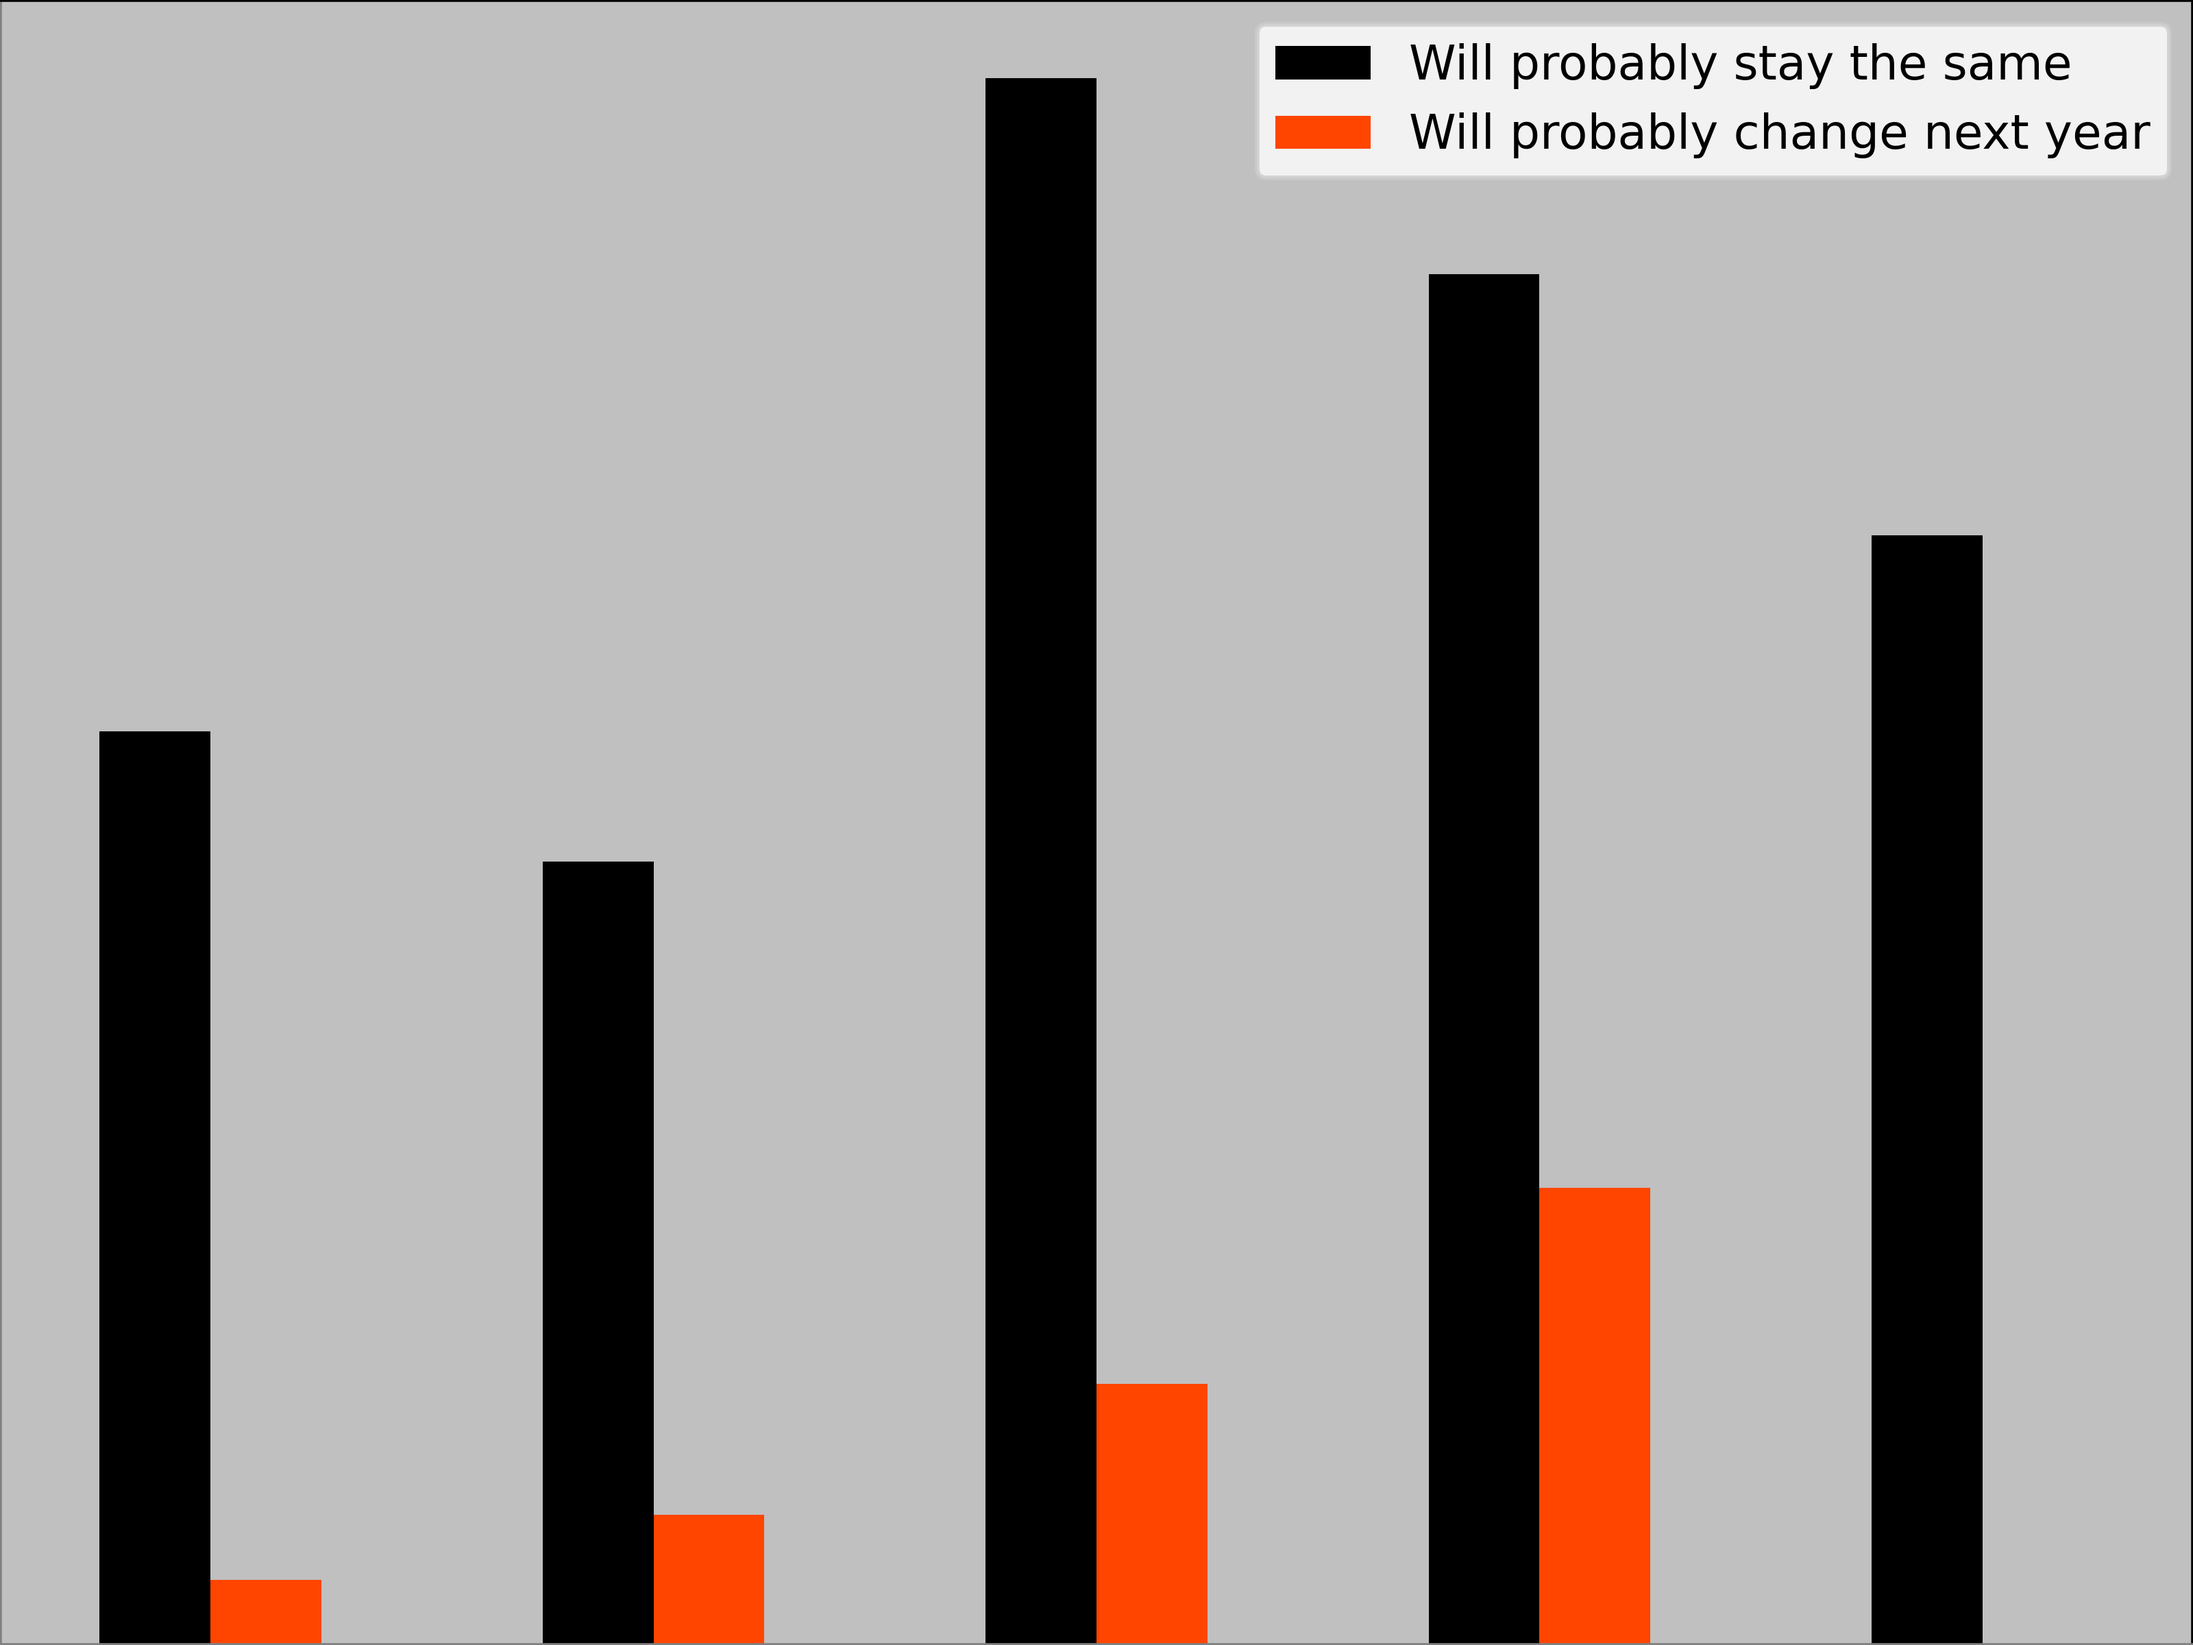
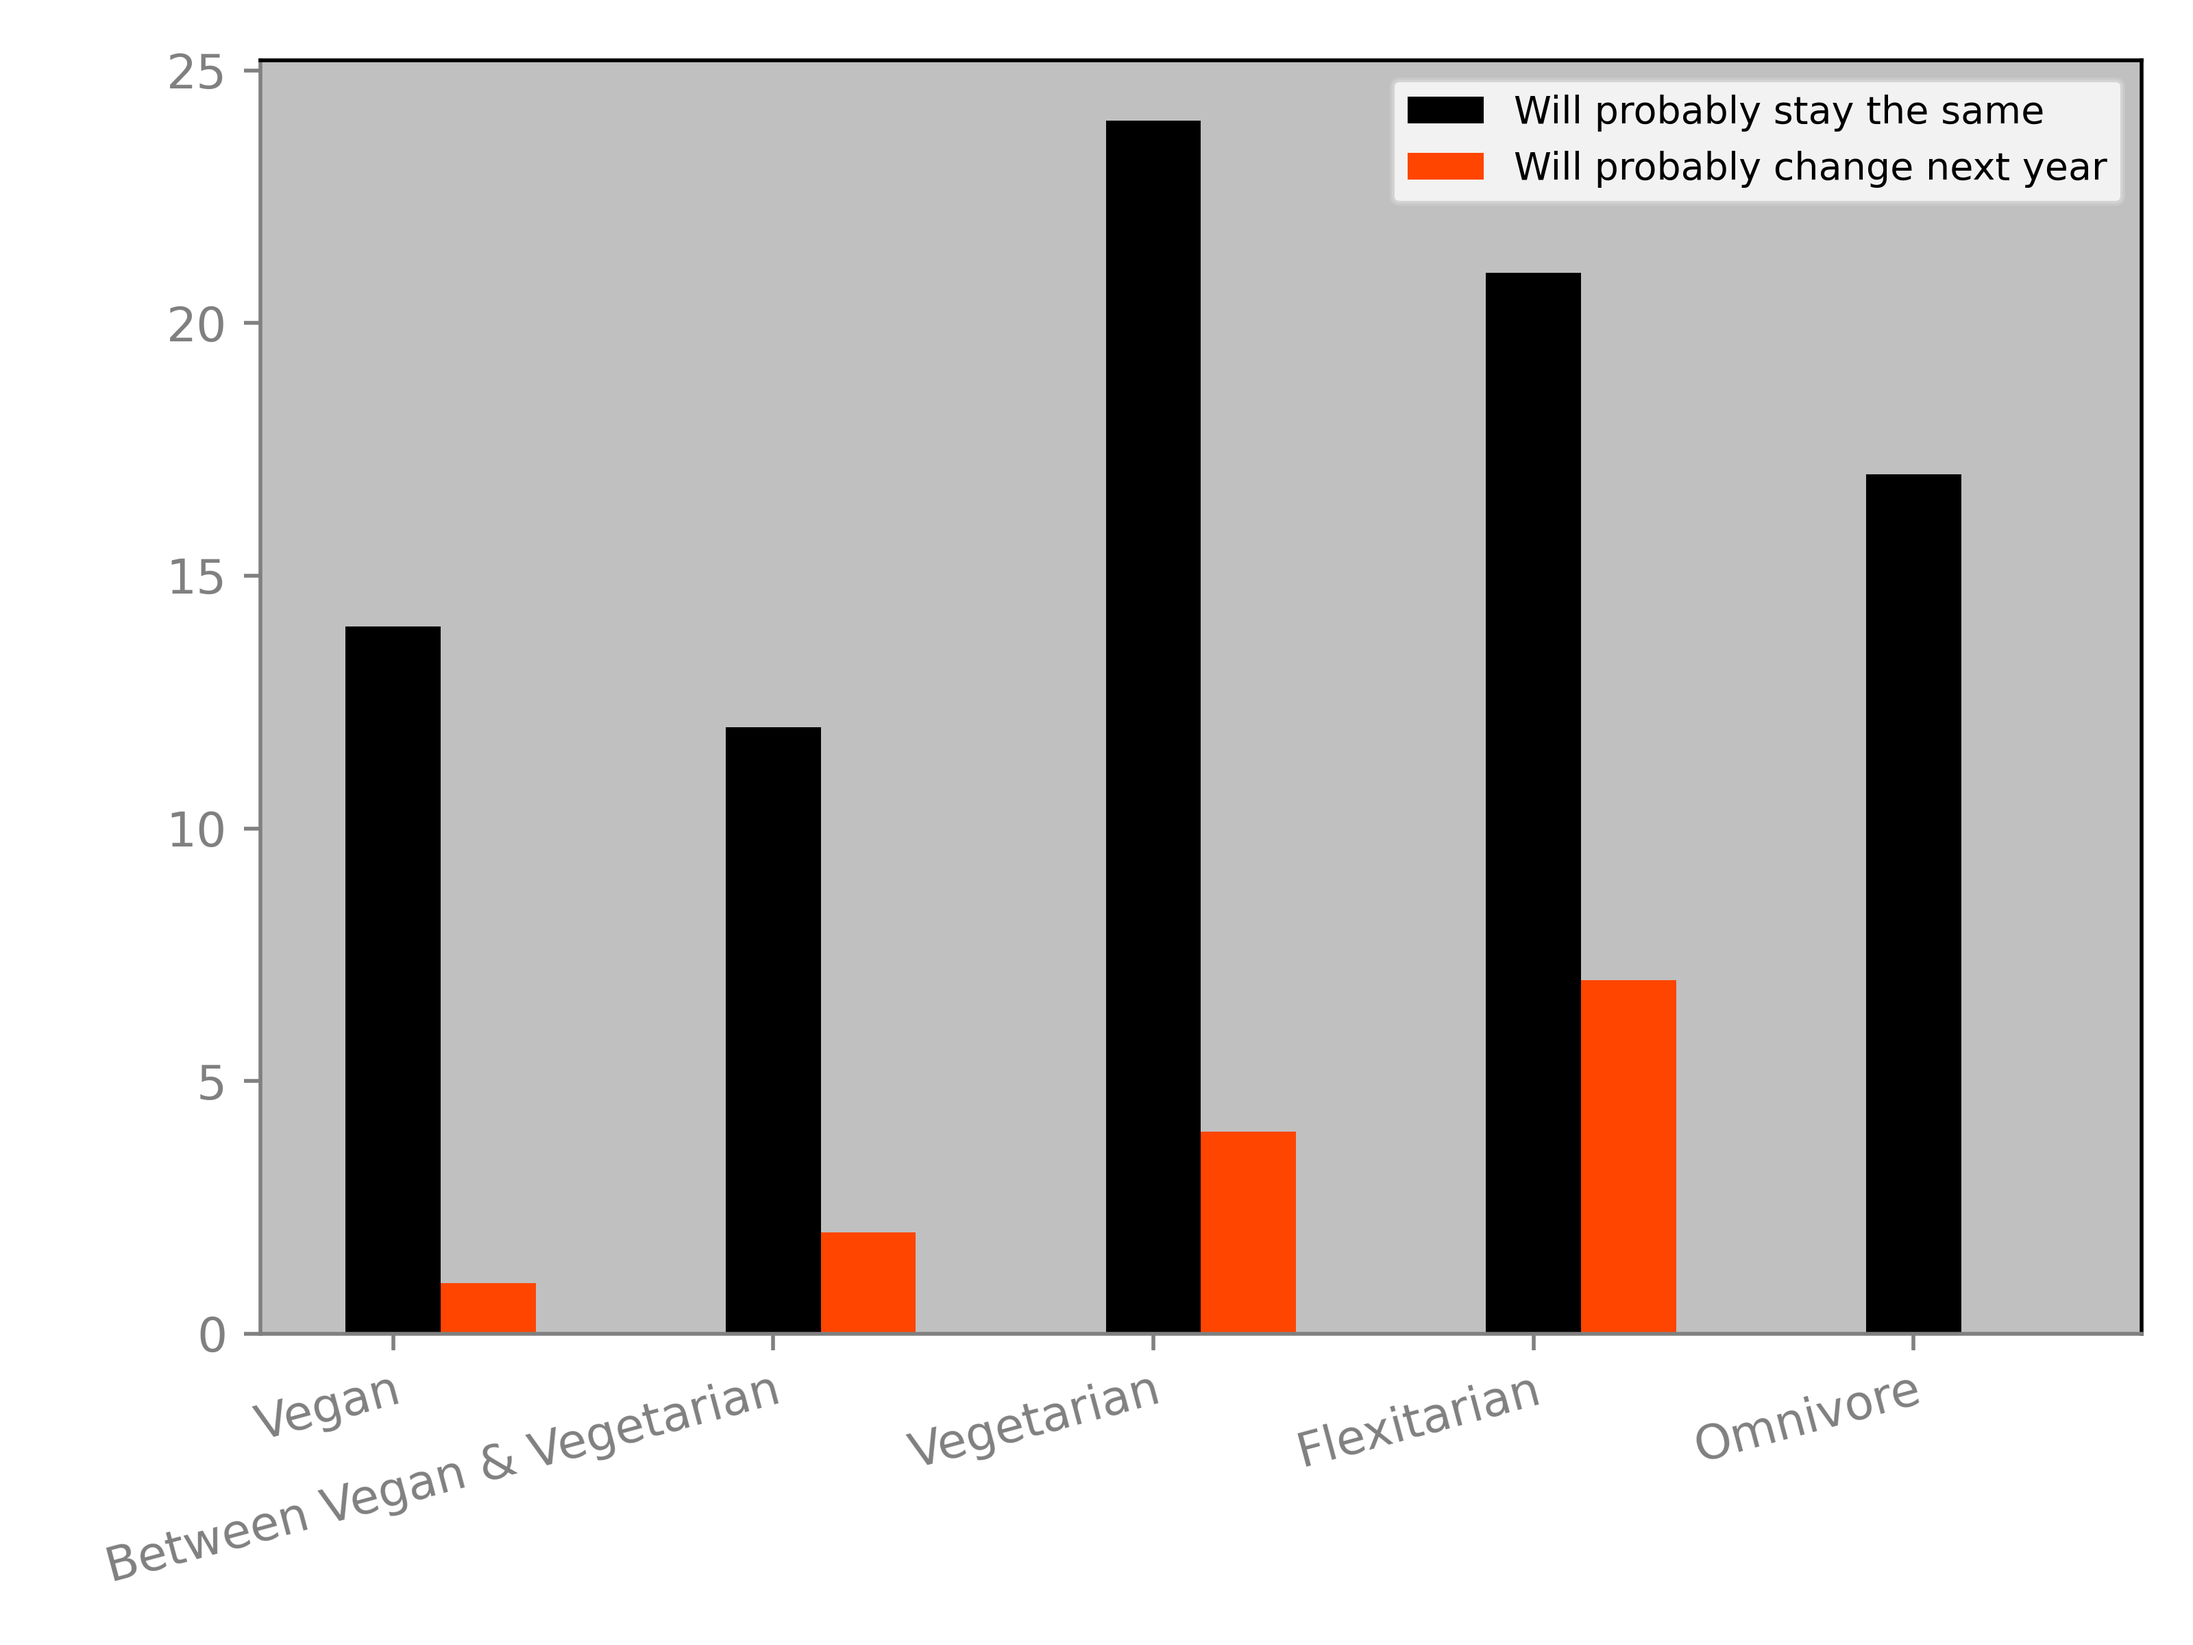
improved graphic and text added

diff --git a/index.html b/index.html
@@ -309,7 +309,7 @@ https://www.tooplate.com/view/2119-gymso-fitness
                             <div class="unsure-member">
                                  <div>
 
-                                      <p class="d-block text-white" data-aos="fade-up" data-aos-delay="600">Week two krbedkhqfbc kfrbdifjqwlefcqwxdk    jqd;lX  ; test test test was all about endurance! How long have you been part of the faculty? You can find the results in the small plot. It does not come as a huge surprise that most of us are not here for very long as we are a quickly growing faculty. At the same time, we are happy to hear that the overwhelming majority hopes to stay for a bit longer! </p>
+                                      <p class="d-block text-white" data-aos="fade-up" data-aos-delay="600">For week two we had the suspicion that a lot of people on campus are consciously reducing their meat consumption/consumption of animal products so we wanted to know it a little more in detail. Turns out we were right! The majority of us do not consume meat, quite some people are even vegan or at least almost (the ones placing their dot on the line got their own category) and then there is a large group of flexitarians as well. Finally, isn't it interesting that some people will probably change their diets except for the very steadfast omnivores?! </p>
 
                                       </div>
                                  </div>

diff --git a/make_plots.py b/make_plots.py
@@ -13,19 +13,27 @@ import matplotlib.pyplot as plt
 # ax.spines['left'].set_color('grey')        # setting up Y-axis tick color to red
 # ax.spines['bottom'].set_color('grey') 
 # plt.legend()
+# plt.show()
 # plt.savefig('results_week1.png', dpi=500)
 
 
 X = np.arange(5)
 fig = plt.figure(dpi=100)
-ax = fig.add_axes([0,0,1,1])
-ax.bar(X, [14,12,24,21,17], color = 'black', width = 0.25,label='Will probably stay the same' ,tick_label=['Vegan', 'Between Vegan and Vegetarian', 'Vegetarian', 'Flexiterian', 'Omnivore'])
+# ax = fig.add_axes([0,0,1,1])
+ax = fig.add_subplot(111)
+ax.bar(X, [14,12,24,21,17], color = 'black', width = 0.25,label='Will probably stay the same' ) # ,tick_label=['Vegan', 'Between Vegan and Vegetarian', 'Vegetarian', 'Flexiterian', 'Omnivore']
 ax.bar(X + 0.25, [1,2,4,7,0], color = 'orangered', width = 0.25,label='Will probably change next year')
 ax.set_facecolor("silver")
-ax.tick_params(axis='x', colors='grey')    #setting up X-axis tick color to red
-ax.tick_params(axis='y', colors='grey')  #setting up Y-axis tick color to black
-
-ax.spines['left'].set_color('grey')        # setting up Y-axis tick color to red
+ax.set_xticks(X)
+ax.set_xticklabels(['Vegan', 'Between Vegan & Vegetarian', 'Vegetarian', 'Flexitarian', 'Omnivore'],rotation=15, ha='right', rotation_mode='anchor')
+ax.tick_params(axis='x', colors='grey') 
 ax.spines['bottom'].set_color('grey') 
-plt.legend()
+
+ax.set_yticks([0,5,10,15,20, 25])
+ax.tick_params(axis='y', colors='grey')  #setting up Y-axis tick color to black
+ax.spines['left'].set_color('grey')        # setting up Y-axis tick color to red
+
+plt.legend(prop={'size': 8})
+plt.tight_layout() # make labels fit on page 
+# plt.show()
 plt.savefig('results_week2.png', dpi=500)
